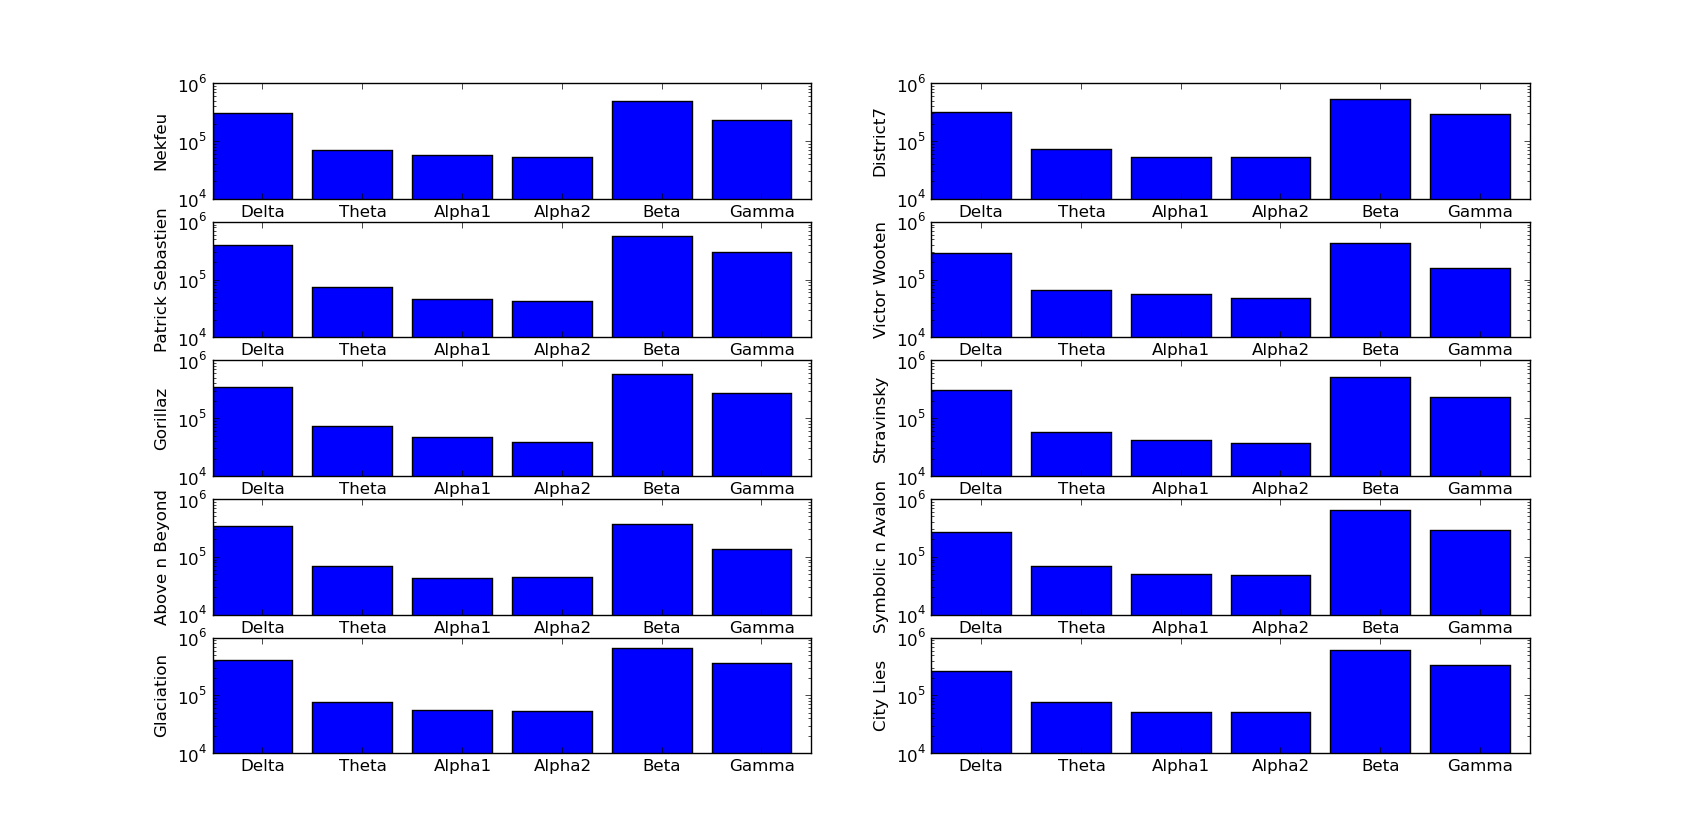
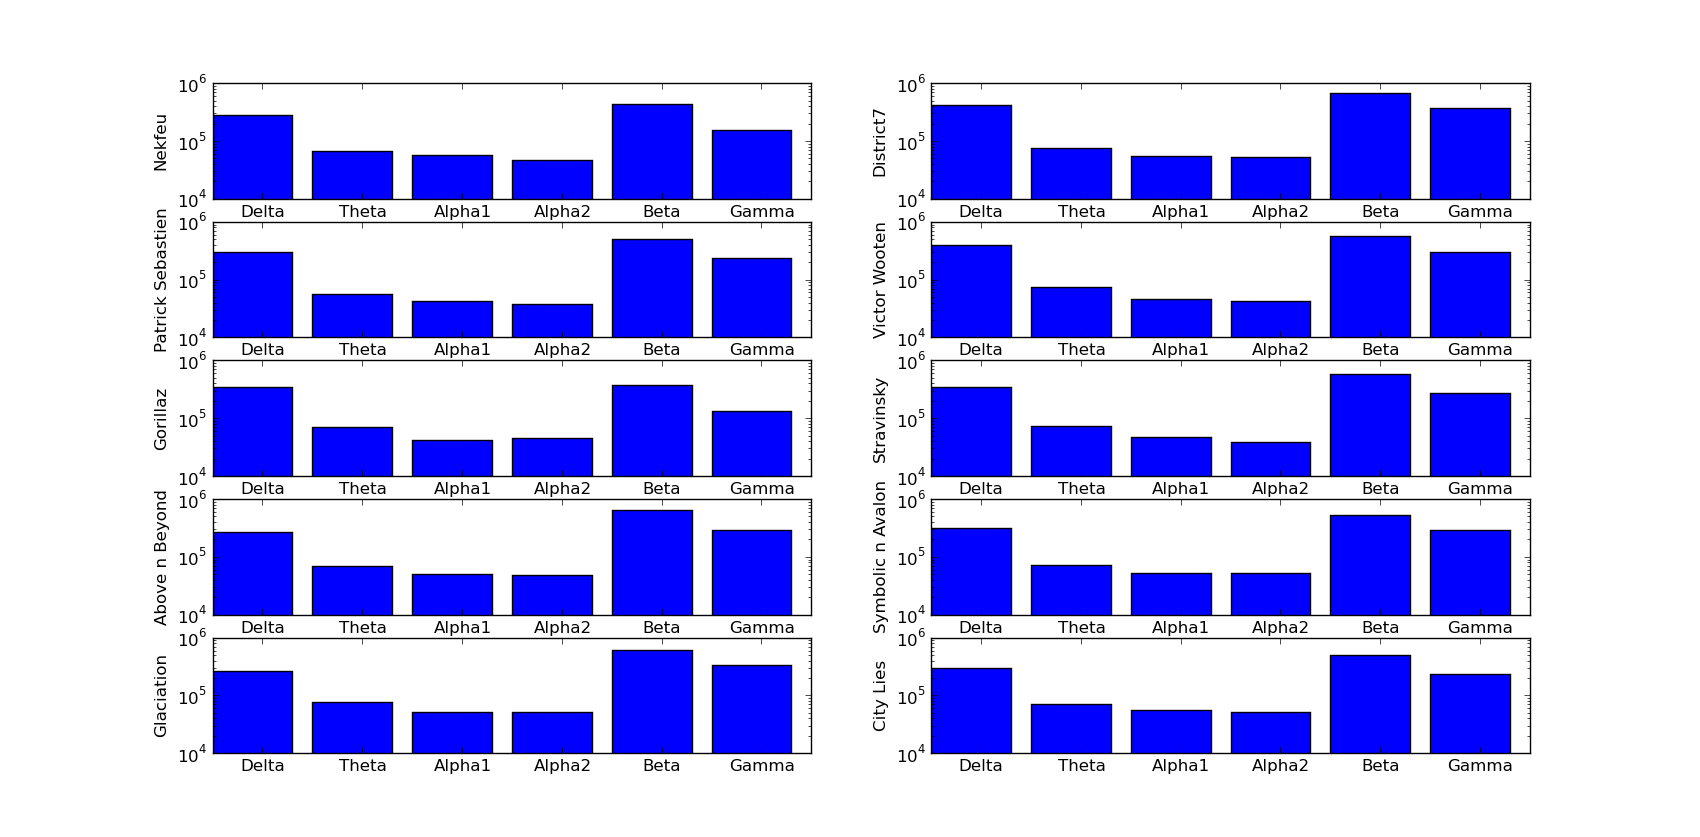
unsupervised rythmic

diff --git a/unsupervised_rythmic.py b/unsupervised_rythmic.py
@@ -18,7 +18,7 @@ def get_spectral_intensities(data, ranges=FREQ_RANGES):
     spectral_data = spectrum.pmtm(data, 2.5, show=False)
     l = len(data)
     for [min, max] in ranges:
-        intensities.extend(sum(spectral_data[int(min * l / FREQ):int(max * l / FREQ)]))
+        intensities.extend(sum(spectral_data[int(min * l / FREQ):int(max * l / FREQ)])/(max-min))
     return intensities
 
 
@@ -28,82 +28,76 @@ def get_all_spectral_intensities(sample, ranges=FREQ_RANGES, signals=SIGNALS_TO_
         intensities.extend(get_spectral_intensities(sample[signal], ranges))
     return(intensities)
 
-plt.figure("L2['F4']")
+plt.figure("C1['T8']")
 width = 1
-# Sung
+# Rythmic
 plt.subplot(521)
-# plt.bar(np.arange(6), get_spectral_intensities(enrL2[0]["F4"]))
-plt.bar(np.arange(6), get_spectral_intensities(enrL2[5]["F4"]))
+plt.bar(np.arange(6), get_spectral_intensities(enrC1[8]["T8"]))
 plt.xticks(np.arange(6) + width/2., labels)
 plt.yscale('log')
-plt.ylabel("Nekfeu")
+plt.ylabel("City Lies")
+
 
 plt.subplot(523)
-# plt.bar(np.arange(6), get_spectral_intensities(enrL2[2]["F4"]))
-plt.bar(np.arange(6), get_spectral_intensities(enrL2[6]["F4"]))
+plt.bar(np.arange(6), get_spectral_intensities(enrC1[5]["T8"]))
 plt.xticks(np.arange(6) + width/2., labels)
 plt.yscale('log')
-plt.ylabel("Patrick Sebastien")
+plt.ylabel("Victor Wooten")
+
 
 plt.subplot(525)
-# plt.bar(np.arange(6), get_spectral_intensities(enrL2[3]["F4"]))
-plt.bar(np.arange(6), get_spectral_intensities(enrL2[4]["F4"]))
+plt.bar(np.arange(6), get_spectral_intensities(enrC1[3]["T8"]))
 plt.xticks(np.arange(6) + width/2., labels)
 plt.yscale('log')
 plt.ylabel("Gorillaz")
 
 plt.subplot(527)
-# plt.bar(np.arange(6), get_spectral_intensities(enrL2[4]["F4"]))
-plt.bar(np.arange(6), get_spectral_intensities(enrL2[7]["F4"]))
+plt.bar(np.arange(6), get_spectral_intensities(enrC1[4]["T8"]))
 plt.xticks(np.arange(6) + width/2., labels)
 plt.yscale('log')
 plt.ylabel("Above n Beyond")
 
 plt.subplot(529)
-# plt.bar(np.arange(6), get_spectral_intensities(enrL2[9]["F4"]))
-plt.bar(np.arange(6), get_spectral_intensities(enrL2[8]["F4"]))
+plt.bar(np.arange(6), get_spectral_intensities(enrC1[9]["T8"]))
 plt.xticks(np.arange(6) + width/2., labels)
 plt.yscale('log')
 plt.ylabel("Glaciation")
 
 # Instru
 plt.subplot(522)
-# plt.bar(np.arange(6), get_spectral_intensities(enrL2[1]["F4"]))
-plt.bar(np.arange(6), get_spectral_intensities(enrL2[9]["F4"]))
+plt.bar(np.arange(6), get_spectral_intensities(enrC1[1]["T8"]))
 plt.xticks(np.arange(6) + width/2., labels)
 plt.yscale('log')
 plt.ylabel("District7")
 
 plt.subplot(524)
-# plt.bar(np.arange(6), get_spectral_intensities(enrL2[5]["F4"]))
-plt.bar(np.arange(6), get_spectral_intensities(enrL2[2]["F4"]))
+plt.bar(np.arange(6), get_spectral_intensities(enrC1[2]["T8"]))
 plt.xticks(np.arange(6) + width/2., labels)
 plt.yscale('log')
-plt.ylabel("Victor Wooten")
+plt.ylabel("Patrick Sebastien")
+
 
 plt.subplot(526)
-# plt.bar(np.arange(6), get_spectral_intensities(enrL2[6]["F4"]))
-plt.bar(np.arange(6), get_spectral_intensities(enrL2[3]["F4"]))
+plt.bar(np.arange(6), get_spectral_intensities(enrC1[6]["T8"]))
 plt.xticks(np.arange(6) + width/2., labels)
 plt.yscale('log')
 plt.ylabel("Stravinsky")
 
 plt.subplot(528)
-# plt.bar(np.arange(6), get_spectral_intensities(enrL2[7]["F4"]))
-plt.bar(np.arange(6), get_spectral_intensities(enrL2[1]["F4"]))
+plt.bar(np.arange(6), get_spectral_intensities(enrC1[7]["T8"]))
 plt.xticks(np.arange(6) + width/2., labels)
 plt.yscale('log')
 plt.ylabel("Symbolic n Avalon")
 
 plt.subplot(520)
-# plt.bar(np.arange(6), get_spectral_intensities(enrL2[8]["F4"]))
-plt.bar(np.arange(6), get_spectral_intensities(enrL2[0]["F4"]))
+plt.bar(np.arange(6), get_spectral_intensities(enrC1[0]["T8"]))
 plt.xticks(np.arange(6) + width/2., labels)
 plt.yscale('log')
-plt.ylabel("City Lies")
+plt.ylabel("Nekfeu")
+
 
 plt.show()
-# plt.savefig("L2.png")
+# plt.savefig("C1.png")
 
 
 
@@ -113,7 +107,7 @@ plt.show()
 # for i in range(10):
 #     if features1[i]["sung"] == 1:
 #         print(i)
-#         # prefrontal_sung = np.concatenate((prefrontal_sung, enrL1[i]["F4"]), axis=0)
+#         # prefrontal_sung = np.concatenate((prefrontal_sung, enrL1[i]["T8"]), axis=0)
 #     else:
 #         print("lol", i)
 #         # prefrontal_instru = np.concatenate((prefrontal_instru, enrL1[i]["F4"]), axis=0)
